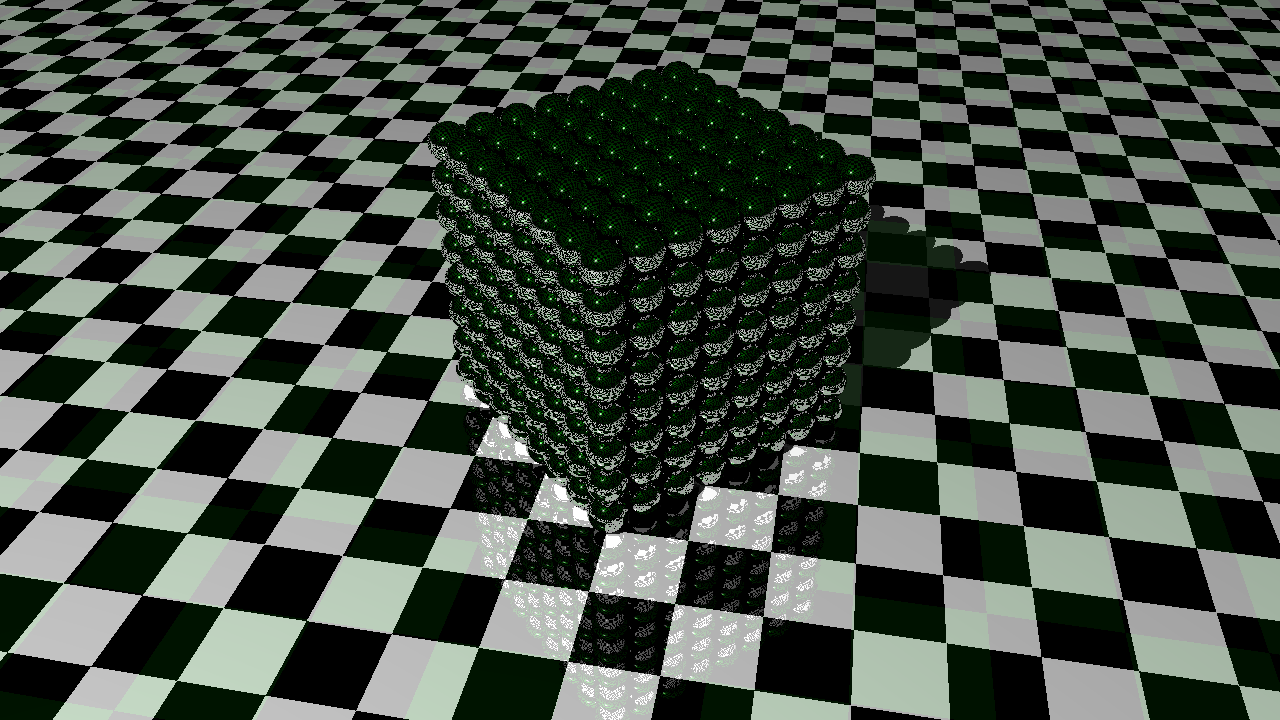
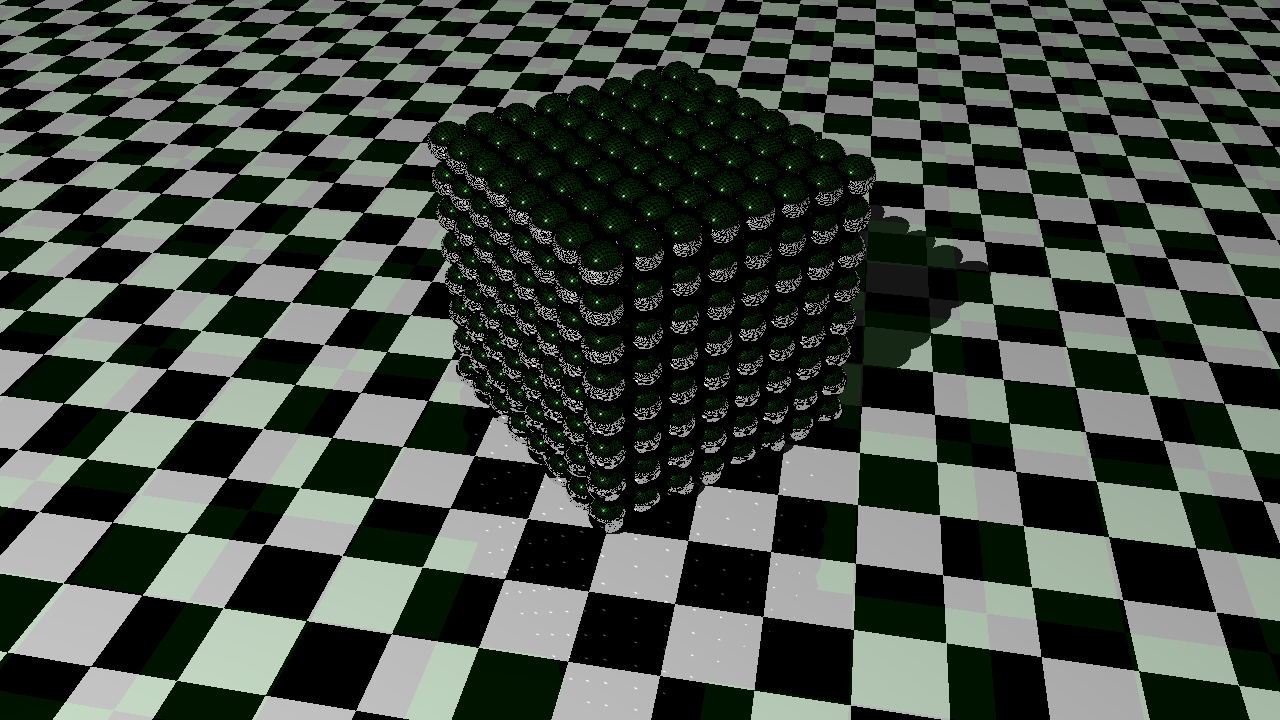
Refactor to a library so I can benchmark TestScenes.

diff --git a/demo/src/main.rs b/demo/src/main.rs
@@ -1,67 +1,16 @@
-use crate::chapter7_scene::ray_trace_end_chapter_7_scene;
-use crate::png_write::PngWrite;
-use crate::test_scenes::RenderTestScene;
-use crate::test_scenes::cube_of_spheres::CubeOfSpheres;
-use crate::test_scenes::cubes::Cubes;
-use crate::test_scenes::glass_sphere_with_air::GlassSphereWithAir;
-use crate::test_scenes::grid::Grid;
-use crate::threaded_canvas::ThreadedCanvas;
-use math::tuple::color::Color;
-use ray_tracer::canvas::{Canvas, Size, ViewPort};
-use ray_tracer::material::Material;
-use std::ops::DerefMut;
-use std::time::Instant;
-
-mod chapter7_scene;
-mod image_buffer_canvas;
-mod png_write;
-mod test_scenes;
-mod threaded_canvas;
+use demo_lib::test_scenes::RenderTestScene;
+use demo_lib::test_scenes::chapter7_scene::Chapter7Scene;
+use demo_lib::test_scenes::cube_of_spheres::CubeOfSpheres;
+use demo_lib::test_scenes::cubes::Cubes;
+use demo_lib::test_scenes::glass_sphere_with_air::GlassSphereWithAir;
+use demo_lib::test_scenes::grid::Grid;
+use ray_tracer::canvas::Size;
 
 fn main() {
-    let size_multiplier = 2;
-    let size = Size::new(600 * size_multiplier, 400 * size_multiplier);
-    render(size, 32);
     let size = Size::HD_720P;
+    Chapter7Scene::render_scene(size);
     GlassSphereWithAir::render_scene(size);
     Cubes::render_scene(size);
     CubeOfSpheres::render_scene(size);
     Grid::render_scene(size);
-}
-
-fn render(size: Size, block_size: u32) {
-    let mut canvas = ThreadedCanvas::new(size, block_size);
-    fill_all_with_gradient(canvas.deref_mut());
-    let now = Instant::now();
-    // Multithread
-    ray_trace_end_chapter_7_scene(&mut canvas);
-    // If passed as a regular canvas, that causes single thread rendering
-    //ray_trace_end_chapter_7_scene(canvas.deref_mut());
-    // ray_trace_with_lighting(&mut canvas);
-    let duration = now.elapsed();
-    let pixels = canvas.size().width() * canvas.size().height();
-    println!(
-        "Ray trace, block size {} took: {} ms {} px/sec",
-        block_size,
-        duration.as_millis(),
-        pixels as f32 / duration.as_secs_f32()
-    );
-    canvas.save_png("demo.png");
-    println!("Saved image to `demo.png`");
-}
-
-fn fill_all_with_gradient<C: Canvas<Color>>(canvas: &mut C) {
-    let size = canvas.size();
-    for y in 0..size.height() {
-        for x in 0..size.width() {
-            let color = (
-                (x as f32) / (size.width() as f32),
-                (y as f32) / (size.height() as f32),
-                0.0,
-                1.0,
-            )
-                .into();
-            canvas.write_color(x, y, color);
-        }
-    }
 }

diff --git a/demo-lib/src/test_scenes/mod.rs b/demo-lib/src/test_scenes/mod.rs
@@ -1,16 +1,15 @@
+pub mod chapter7_scene;
 pub mod cube_of_spheres;
 pub mod cubes;
 pub mod glass_sphere_with_air;
 pub mod grid;
 
-use crate::fill_all_with_gradient;
 use crate::png_write::PngWrite;
 use crate::threaded_canvas::ThreadedCanvas;
 use ray_tracer::camera::Camera;
 use ray_tracer::canvas::{Size, ViewPort};
 use ray_tracer::world::World;
 use ray_tracer::world::render_world::RenderWorld;
-use std::ops::DerefMut;
 use std::time::Instant;
 
 pub trait TestScene {
@@ -23,15 +22,23 @@ pub trait TestScene {
 
 pub trait RenderTestScene<T> {
     fn render_scene(size: Size);
+    fn render_scene_to(size: Size, path: Option<&str>);
 }
 
 impl<T: TestScene> RenderTestScene<T> for T {
     fn render_scene(size: Size) {
         let name = T::name();
-        println!("=== Rendering: {} at {} ===", name, size);
+        let file_name = format!("test_scenes/{}.png", name);
+        Self::render_scene_to(size, Some(&file_name));
+    }
+
+    fn render_scene_to(size: Size, path: Option<&str>) {
+        let name = T::name();
+        if path.is_some() {
+            println!("=== Rendering: {} at {} ===", name, size);
+        }
         const BLOCK_SIZE: u32 = 32;
         let mut canvas = ThreadedCanvas::new(size, BLOCK_SIZE);
-        fill_all_with_gradient(canvas.deref_mut());
         let world = T::build_world();
         let camera = T::build_camera(size);
 
@@ -39,14 +46,17 @@ impl<T: TestScene> RenderTestScene<T> for T {
         canvas.render(&world, &camera);
         let duration = now.elapsed();
         let pixels = canvas.size().width() * canvas.size().height();
-        println!("Threaded block size: {}", BLOCK_SIZE,);
-        println!("Took: {:.3} s", duration.as_secs_f32(),);
-        let (quantity, si) = format((pixels as f32 / duration.as_secs_f32()) as u32);
-        println!("Rate {:.1} {}px/sec", quantity, si);
-        let file_name = format!("test_scenes/{}.png", name);
-        canvas.save_png(file_name.clone());
-        println!("Saved image: {}", file_name);
-        println!();
+        if path.is_some() {
+            println!("Threaded block size: {}", BLOCK_SIZE,);
+            println!("Took: {:.3} s", duration.as_secs_f32(),);
+            let (quantity, si) = format((pixels as f32 / duration.as_secs_f32()) as u32);
+            println!("Rate {:.1} {}px/sec", quantity, si);
+        }
+        if let Some(file_name) = path {
+            canvas.save_png(file_name);
+            println!("Saved image: {}", file_name);
+            println!();
+        }
     }
 }
 

diff --git a/demo-lib/src/test_scenes/chapter7_scene.rs b/demo-lib/src/test_scenes/chapter7_scene.rs
@@ -1,9 +1,10 @@
 use crate::Material;
+use crate::test_scenes::TestScene;
 use math::matrix::matrix_4x4::Matrix4x4;
 use math::tuple::color::{BLUE, GREEN, RED, WHITE};
 use math::{Angle, color, degrees, point, vector};
 use ray_tracer::camera::Camera;
-use ray_tracer::canvas::ViewPort;
+use ray_tracer::canvas::Size;
 use ray_tracer::gradient_stops;
 use ray_tracer::lighting::PointLight;
 use ray_tracer::material::pattern::Pattern;
@@ -11,25 +12,33 @@ use ray_tracer::primatives::Shape;
 use ray_tracer::transform::Transform;
 use ray_tracer::view_matrix::ViewMatrix;
 use ray_tracer::world::World;
-use ray_tracer::world::render_world::RenderWorld;
 
-pub fn ray_trace_end_chapter_7_scene<C: ViewPort + RenderWorld>(canvas: &mut C) {
-    let mut world = World::default();
-    world.add(floor());
-    world.add(wall(degrees!(-45))); // left wall
-    world.add(wall(degrees!(45))); // right wall
-    world.add(green_sphere());
-    world.add(small_green_sphere());
-    world.add(smallest_yellow_sphere());
-    world.set_light(PointLight::new(point!(-10, 10, -10), color!(1, 1, 1)));
-    let world = world;
+pub struct Chapter7Scene {}
 
-    let mut camera = Camera::new(canvas.size(), degrees!(60));
-    camera.set_transform(
-        ViewMatrix::new_look_at(point!(0, 1.5, -5), point!(0, 1, 0), vector!(0, 1, 0)).into(),
-    );
+impl TestScene for Chapter7Scene {
+    fn name() -> &'static str {
+        "Chapter 7 Scene"
+    }
 
-    canvas.render(&world, &camera);
+    fn build_world() -> World {
+        let mut world = World::default();
+        world.add(floor());
+        world.add(wall(degrees!(-45))); // left wall
+        world.add(wall(degrees!(45))); // right wall
+        world.add(green_sphere());
+        world.add(small_green_sphere());
+        world.add(smallest_yellow_sphere());
+        world.set_light(PointLight::new(point!(-10, 10, -10), color!(1, 1, 1)));
+        world
+    }
+
+    fn build_camera(size: Size) -> Camera {
+        let mut camera = Camera::new(size, degrees!(60));
+        camera.set_transform(
+            ViewMatrix::new_look_at(point!(0, 1.5, -5), point!(0, 1, 0), vector!(0, 1, 0)).into(),
+        );
+        camera
+    }
 }
 
 fn floor() -> Shape {

diff --git a/demo-lib/src/lib.rs b/demo-lib/src/lib.rs
@@ -1,0 +1,24 @@
+use math::tuple::color::Color;
+use ray_tracer::canvas::{Canvas, ViewPort};
+use ray_tracer::material::Material;
+
+mod image_buffer_canvas;
+mod png_write;
+pub mod test_scenes;
+mod threaded_canvas;
+
+fn fill_all_with_gradient<C: Canvas<Color>>(canvas: &mut C) {
+    let size = canvas.size();
+    for y in 0..size.height() {
+        for x in 0..size.width() {
+            let color = (
+                (x as f32) / (size.width() as f32),
+                (y as f32) / (size.height() as f32),
+                0.0,
+                1.0,
+            )
+                .into();
+            canvas.write_color(x, y, color);
+        }
+    }
+}

diff --git a/demo-lib/benches/scene_benchmark.rs b/demo-lib/benches/scene_benchmark.rs
@@ -1,0 +1,14 @@
+use criterion::{Criterion, criterion_group, criterion_main};
+use demo_lib::test_scenes::RenderTestScene;
+use demo_lib::test_scenes::cube_of_spheres::CubeOfSpheres;
+use ray_tracer::canvas::Size;
+use std::hint::black_box;
+
+fn cube_of_spheres_benchmark(c: &mut Criterion) {
+    c.bench_function("CubeOfSpheres", |b| {
+        b.iter(|| black_box(CubeOfSpheres::render_scene_to(Size::new(100, 100), None)))
+    });
+}
+
+criterion_group!(benches, cube_of_spheres_benchmark,);
+criterion_main!(benches);

diff --git a/demo-lib/src/test_scenes/cube_of_spheres.rs b/demo-lib/src/test_scenes/cube_of_spheres.rs
@@ -21,7 +21,7 @@ impl TestScene for CubeOfSpheres {
 
     fn build_world() -> World {
         let mut world = World::default();
-        world.max_ray_generation = 3;
+        world.max_ray_generation = 2;
         world.set_light(PointLight::new(point!(40, 40, 20), *WHITE * 0.9));
         let mut shape = Shape::new_plane();
         shape.material.pattern = Pattern::Checker(
